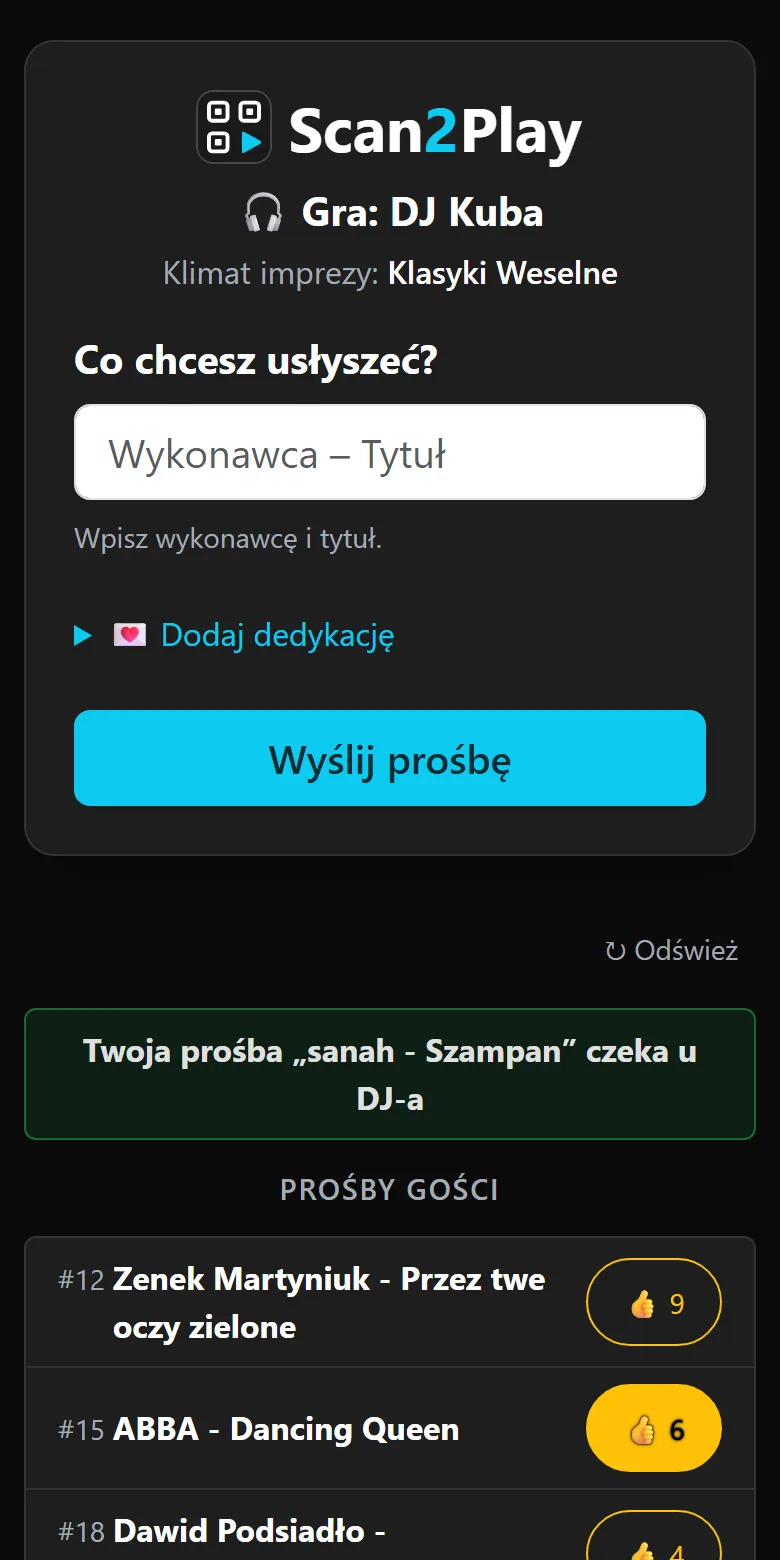
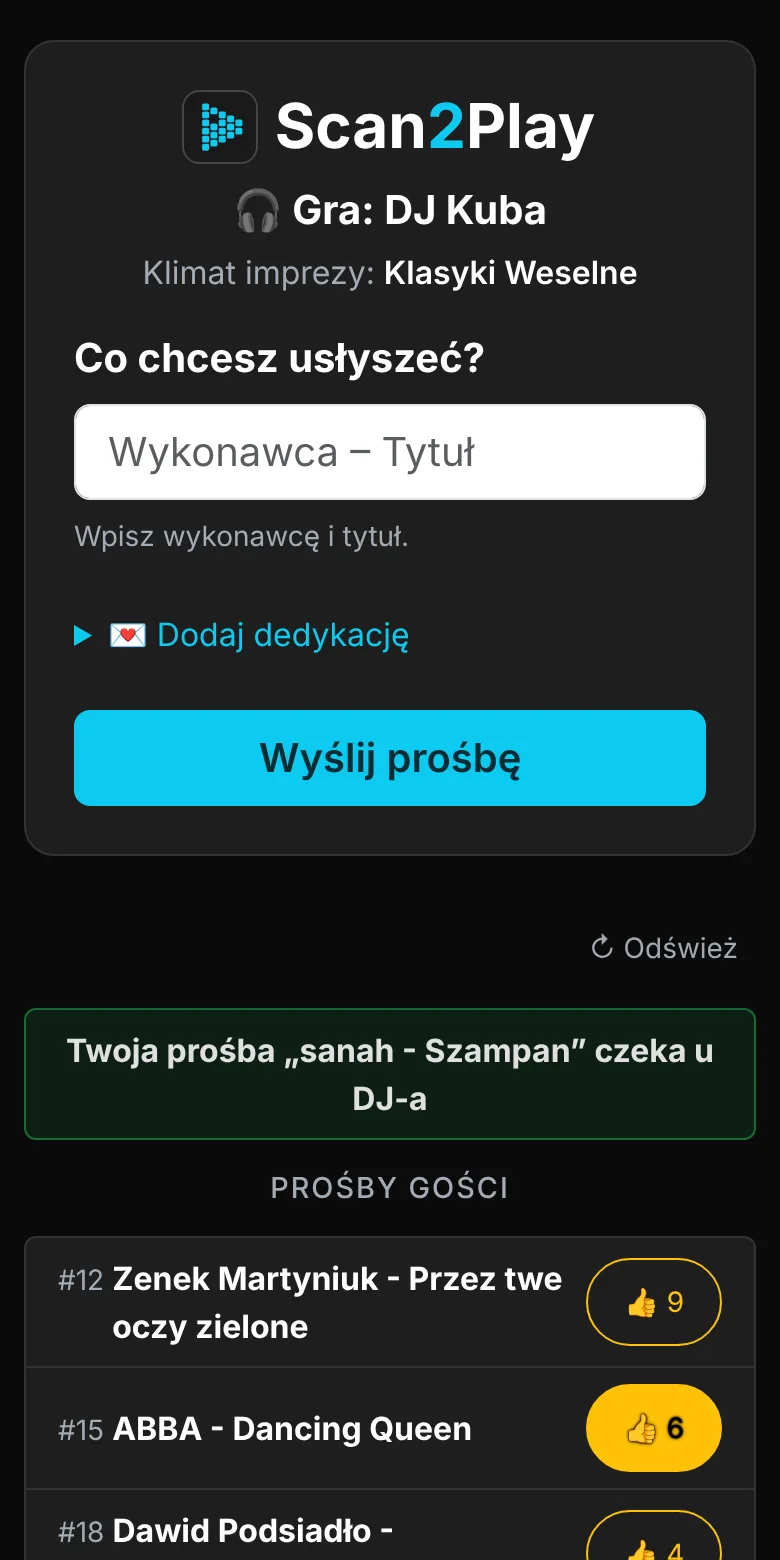
A new mark: a play triangle built of a QR code's modules
The old mark (three QR finder corners and a play triangle in the fourth)
was the usual shape of QR apps and close to another song-request site's.
The new one keeps "scan" and "play": a cyan play triangle of QR modules,
a few left out, on the same dark tile.

- logo.svg: the mark where it is large (TV, QR poster and cards, the app
  icons, the notifications' badge as its white silhouette, og-image).
- logo-small.svg: fewer, larger modules, which stay apart at 16-32 px —
  the pages' logo (components :: logo), the evening summary and
  favicon.ico at 16 / 32 px.
- icon-192 / icon-512 / apple-touch-icon / badge-96 / favicon.ico /
  og-image.png drawn again from them; the landing page's pictures
  taken again (screenshots.py).

Claude-Session: https://claude.ai/code/session_01Jr9v7sWtaed7AEfSVW47do

diff --git a/src/main/resources/templates/fragments/components.html b/src/main/resources/templates/fragments/components.html
@@ -213,8 +213,9 @@
           th:text="${ago == 0} ? #{time.today} : (${ago == 1} ? #{time.yesterday} : ${T(com.scan2play.util.Times).day(at)})">today</span>
 </th:block>
 
-<!--/* Our logo: the mark (static/images/logo.svg — QR corners and a play triangle) and the name with a cyan "2". Sized by the
-     font of the element it replaces (the mark is 1.15em); the name is one span, so the flex gap stays between mark and name. */-->
+<!--/* Our logo: the mark (a play triangle of a QR code's modules) and the name with a cyan "2". Sized by the font of the element it
+     replaces (the mark is 1.15em, mostly 20–30 px): static/images/logo-small.svg, whose fewer, larger modules stay apart at that size
+     (logo.svg's run together); the name is one span, so the flex gap stays between mark and name. */-->
 <!--/* The way back to the DJ's own dashboard from a guest's page — shown only in the installed app (app.css,
      display-mode: standalone). The app takes every address of the site, so the DJ testing their QR code landed on the guest page
      inside it with no address bar and no "back" (the owner, 2026-10-08). Only a DJ has the app: the manifest is on the dashboard
@@ -345,7 +346,7 @@
     </th:block>
 </th:block>
 
-<span th:fragment="logo" class="s2p-logo"><img src="/images/logo.svg" alt="" class="s2p-logo-mark"><span>Scan<span class="s2p-logo-two">2</span>Play</span></span>
+<span th:fragment="logo" class="s2p-logo"><img src="/images/logo-small.svg" alt="" class="s2p-logo-mark"><span>Scan<span class="s2p-logo-two">2</span>Play</span></span>
 
 <!--/* Our logo as the way home, on the public pages (the guide, Pro, the demo, the home page itself; the panel; the owner, 2026-10-24): a link that looks like the logo
      and says it is one — a hand, the accent (app.css) and "Scan2Play — strona główna" on hover, a ring on the keyboard's focus. The pages

diff --git a/src/main/resources/templates/summary.html b/src/main/resources/templates/summary.html
@@ -36,7 +36,7 @@
 
 <main>
     <header class="head">
-        <p class="logo"><img src="/images/logo.svg" alt=""><span>Scan<span class="two">2</span>Play</span></p>
+        <p class="logo"><img src="/images/logo-small.svg" alt=""><span>Scan<span class="two">2</span>Play</span></p>
         <h1 th:text="#{summary.title}">Evening summary</h1>
         <p th:if="${evening != null}" class="when">
             <span th:text="${#temporals.format(evening, 'EEEE, dd.MM.yyyy', #locale)}">sobota, 03.10.2026</span>

diff --git a/src/test/java/com/scan2play/template/DashboardPageRenderTest.java b/src/test/java/com/scan2play/template/DashboardPageRenderTest.java
@@ -326,7 +326,7 @@ class DashboardPageRenderTest {
         assertThat(html).as("the time of a request: the clock, the day under it, the full moment in the title")
                 .contains("title=\"29.09.2026 20:00:01\"", ">20:00</span>", ">29.09</span>").doesNotContain(">29.09.2026 20:00:01<");
         assertThat(html).as("our logo above the page's heading").contains(
-                "<span class=\"s2p-logo\"><img src=\"/images/logo.svg\" alt=\"\" class=\"s2p-logo-mark\"><span>Scan<span class=\"s2p-logo-two\">2</span>Play</span></span>",
+                "<span class=\"s2p-logo\"><img src=\"/images/logo-small.svg\" alt=\"\" class=\"s2p-logo-mark\"><span>Scan<span class=\"s2p-logo-two\">2</span>Play</span></span>",
                 "<h1 class=\"visually-hidden\">Panel DJ-a</h1>");
         assertThat(html).as("the queue sorts by votes, the most wanted first").contains("<th data-sort=\"votes\" data-sort-first=\"desc\"", ">Głosy<");
         // the DJ's vibe note form, and "any" means "the AI judges" here: the guests pick no vibe

diff --git a/src/test/java/com/scan2play/template/GuestPageRenderTest.java b/src/test/java/com/scan2play/template/GuestPageRenderTest.java
@@ -88,7 +88,7 @@ class GuestPageRenderTest {
                     .doesNotContain("id=\"modeMood\"", "id=\"modeSong\"", "name=\"requestMode\"", "name=\"style\"", "id=\"styleInput\"");
             assertThat(html).as("no YouTube on the page").doesNotContain("Powered by YouTube", "YouTube API Services");
             assertThat(html).as("our logo is the page's heading").containsPattern(
-                    "<h1 class=\"display-5 fw-bold mb-2\"><span class=\"s2p-logo\"><img src=\"/images/logo.svg\"[^>]*><span>Scan<span class=\"s2p-logo-two\">2</span>Play</span></span></h1>");
+                    "<h1 class=\"display-5 fw-bold mb-2\"><span class=\"s2p-logo\"><img src=\"/images/logo-small.svg\"[^>]*><span>Scan<span class=\"s2p-logo-two\">2</span>Play</span></span></h1>");
             // no inline script (CSP, review 5.1): the page's script is a file
             DashboardPageRenderTest.assertNothingInline(html);
             assertThat(html).contains("<script src=\"/js/guest-party.js\">");

diff --git a/src/test/java/com/scan2play/template/SummaryPageTest.java b/src/test/java/com/scan2play/template/SummaryPageTest.java
@@ -143,7 +143,7 @@ class SummaryPageTest {
         Files.writeString(OUT.resolve(file + ".html"), html
                 .replace("/css/summary.css", "../../src/main/resources/static/css/summary.css")
                 .replace("/js/summary.js", "../../src/main/resources/static/js/summary.js")
-                .replace("/images/logo.svg", "../../src/main/resources/static/images/logo.svg"), StandardCharsets.UTF_8);
+                .replace("/images/logo-small.svg", "../../src/main/resources/static/images/logo-small.svg"), StandardCharsets.UTF_8);
         return html;
     }
 

diff --git a/PROJECT_CONTEXT.md b/PROJECT_CONTEXT.md
@@ -788,7 +788,7 @@ attributes. **No inline script, no `on…=` handler and no `style="…"`** on an
 | `sw.js`, `manifest.webmanifest`, `images/icon-192.png`, `icon-512.png`, `apple-touch-icon.png`, `badge-96.png` | the service worker of the notifications (shows and folds them; a tap opens the panel of the notification's party — `/dj/dashboard?party=CODE`: a window showing it is brought forward, else a DJ window goes there, else a new one — `openThePanel`, tested by the browser scenario `notification-opens-the-partys-panel`; no cache, no fetch handler); the web app manifest (the dashboard on the Home Screen, `start_url` `/dj/dashboard`) and its icons (the mark on a full dark square; `badge-96.png`: the mark alone in white on transparent — the status bar's small icon, Android draws only its transparency) |
 | `images/og-image.png` | the picture of a shared link (Open Graph, 1200×630: the mark, "Scan2Play", "Prośby o piosenki od gości przez kod QR"; 2026-10-14) |
 | `images/landing/*.webp` | the landing page's pictures of the app (2026-10-17): the DJ's panel (1920 × 1140) and the guest's page (780 × 1560), PL and EN, of a made-up party — `src/test/browser/screenshots.py` writes them |
-| `images/logo.svg`, `favicon.ico` | our mark: three QR finder corners and a cyan play triangle on the dark tile (2026-10-04); on the landing page, the dashboard, the guest page, the QR poster and cards; the favicon is the same mark at 16 / 32 / 48 px |
+| `images/logo.svg`, `images/logo-small.svg`, `favicon.ico` | our mark: a cyan play triangle built of a QR code's modules (a few left out) on the dark tile — not the three finder corners with a sign in the fourth, the usual mark of QR apps (2026-10-25). `logo.svg` where the mark is large (the TV screen, the QR poster and cards, the icons `icon-192` / `icon-512` / `apple-touch-icon`, `badge-96` as its white silhouette, `og-image.png`); `logo-small.svg` — fewer, larger modules, which stay apart at 16 – 32 px — in the pages' logo (`components :: logo`), the evening summary and `favicon.ico` at 16 and 32 px (48 px: `logo.svg`). The landing page's pictures (`images/landing/*.webp`, `screenshots.py`) show it too |
 
 ### 6.6 Resources
 
